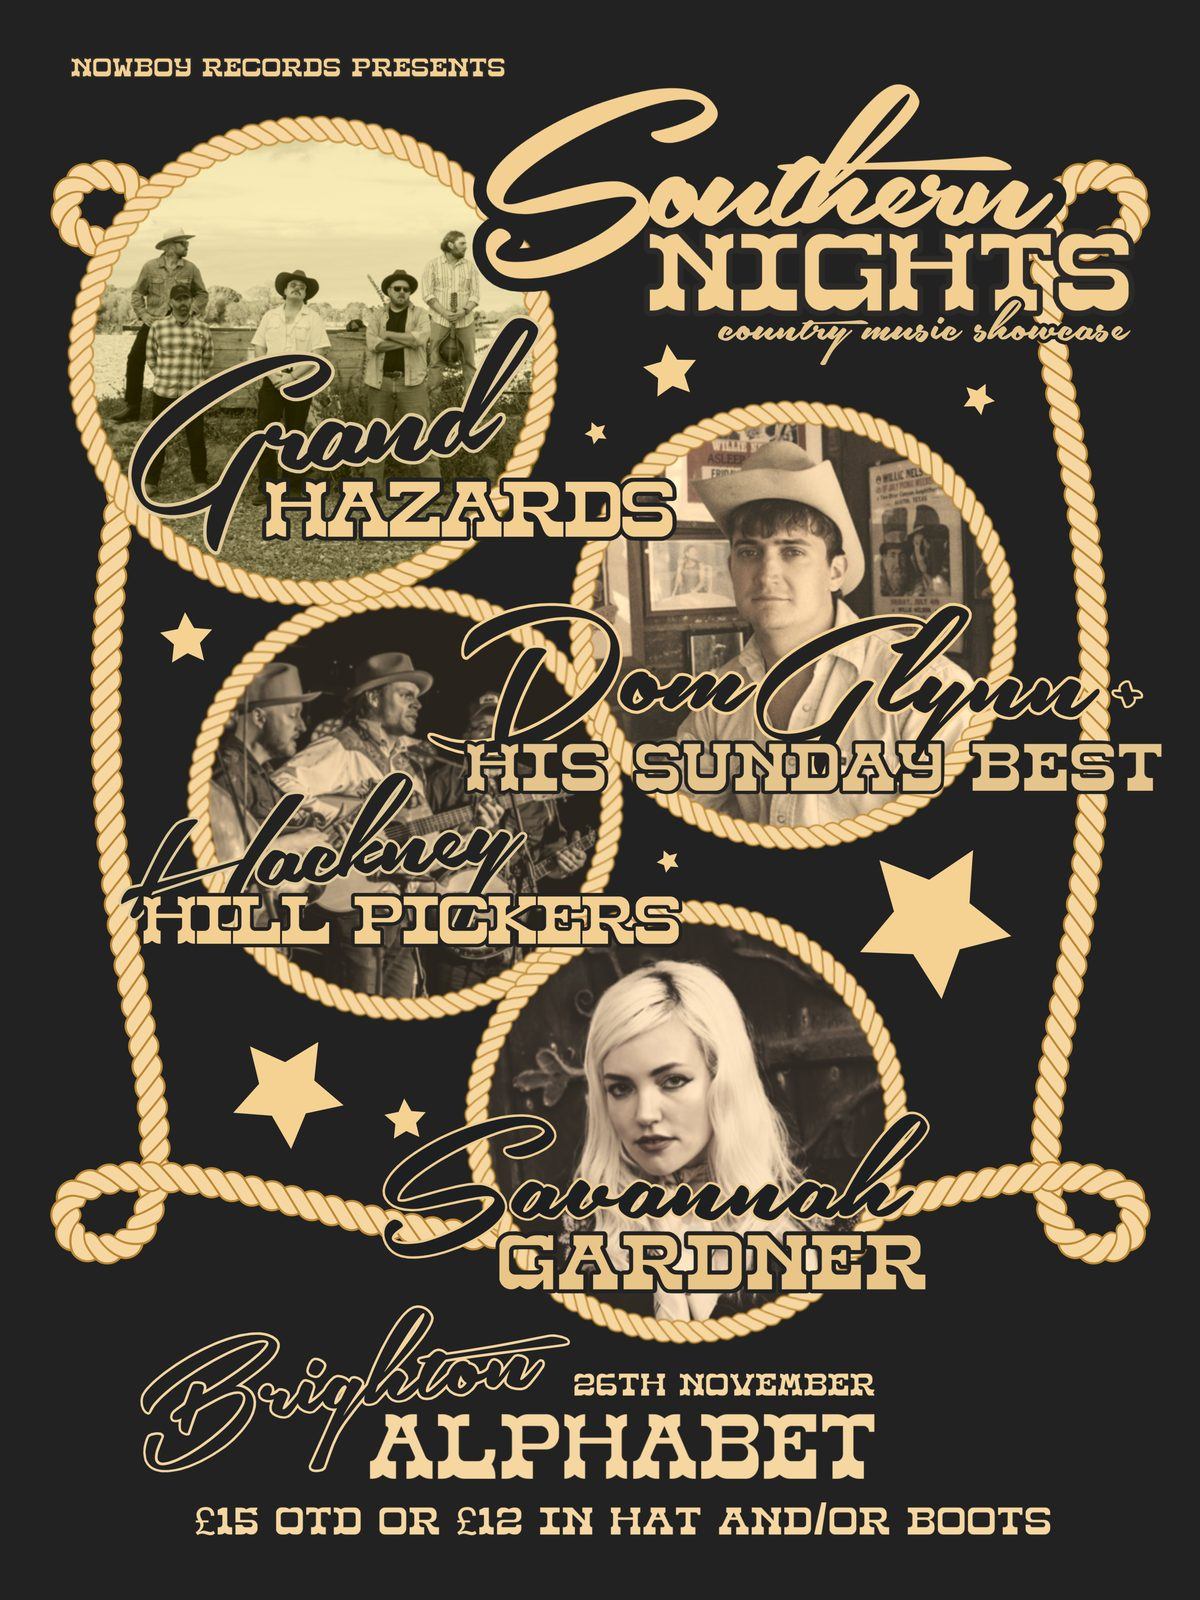
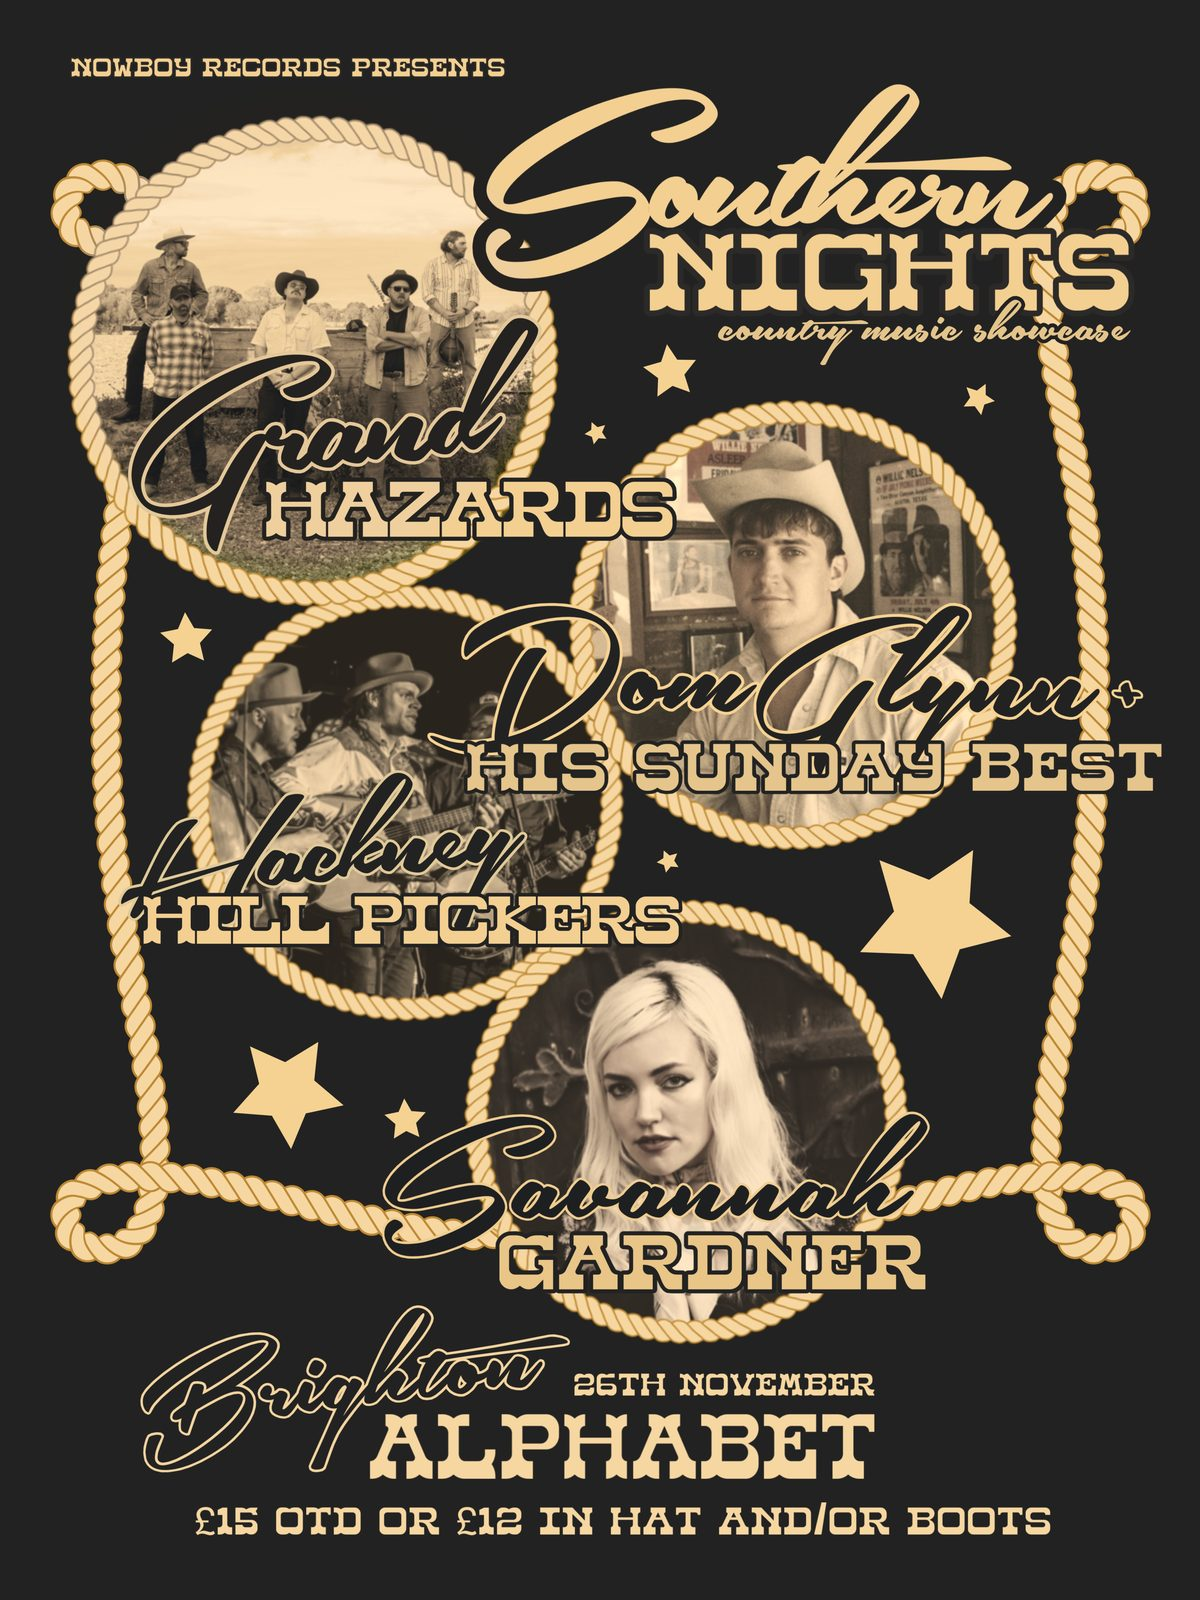
Poster palette for the site, colour-matched Grand Hazards photo
Charcoal ground, rope cream and tan taken off the Southern Nights poster.
The Grand Hazards photo is remapped through the same duotone curve as the
other three so the bill looks consistent.

Claude-Session: https://claude.ai/code/session_01FrJCnWG7opyiZPccYFGzee

diff --git a/site.css b/site.css
@@ -1,22 +1,14 @@
-/* Nowboy Records — cream paper, olive ink. Posters do the work. */
+/* Nowboy Records — palette lifted straight off the Southern Nights poster:
+   charcoal ground, rope cream, tan midtone. Posters do the work. */
 :root {
-  --paper:  #F3EFE3;   /* cream, off the logo */
-  --ink:    #37341F;   /* deep olive */
-  --olive:  #534F3F;   /* logo olive */
-  --muted:  #7C765F;
-  --line:   #D8D1BB;
+  --paper:  #1B1A18;   /* page ground, a shade deeper than the poster */
+  --raised: #24221E;   /* behind a poster while it loads */
+  --ink:    #EFE7D6;   /* body text, soft cream */
+  --wheat:  #F5D5A1;   /* the poster's rope cream — headings and accents */
+  --tan:    #AD9570;   /* the poster's midtone — secondary text */
+  --line:   #37322A;
   --display: "Yeseva One", Windsor, Georgia, serif;
   --body: "Jost", system-ui, -apple-system, "Helvetica Neue", sans-serif;
-  color-scheme: light;
-}
-@media (prefers-color-scheme: dark) {
-  :root:not([data-theme="light"]) {
-    --paper: #2F2C1D; --ink: #F3EFE3; --olive: #E6E0CB; --muted: #ABA389; --line: #4C4833;
-    color-scheme: dark;
-  }
-}
-:root[data-theme="dark"] {
-  --paper: #2F2C1D; --ink: #F3EFE3; --olive: #E6E0CB; --muted: #ABA389; --line: #4C4833;
   color-scheme: dark;
 }
 
@@ -29,15 +21,15 @@ body {
 /* paints the strip behind a phone's status bar so nothing scrolls into it */
 body::before { content: ""; position: fixed; inset: 0 0 auto; height: env(safe-area-inset-top, 0px); z-index: 30; background: var(--paper); }
 a { color: inherit; }
-a:focus-visible { outline: 2px solid var(--ink); outline-offset: 3px; }
-h1, h2, h3 { font-family: var(--display); font-weight: 400; text-wrap: balance; margin: 0; line-height: 1.12; }
+a:focus-visible { outline: 2px solid var(--wheat); outline-offset: 3px; }
+h1, h2, h3 { font-family: var(--display); font-weight: 400; color: var(--wheat); text-wrap: balance; margin: 0; line-height: 1.12; }
 
 .wrap {
   max-width: 1120px; margin: 0 auto;
   padding-left: max(20px, env(safe-area-inset-left, 0px));
   padding-right: max(20px, env(safe-area-inset-right, 0px));
 }
-.eyebrow { font-size: 12px; font-weight: 500; letter-spacing: .24em; text-transform: uppercase; color: var(--muted); margin: 0; }
+.eyebrow { font-size: 12px; font-weight: 500; letter-spacing: .24em; text-transform: uppercase; color: var(--tan); margin: 0; }
 .sr { position: absolute; width: 1px; height: 1px; overflow: hidden; clip: rect(0 0 0 0); }
 
 /* Top bar — sticks, hides on the way down, comes back on the way up */
@@ -48,21 +40,21 @@ h1, h2, h3 { font-family: var(--display); font-weight: 400; text-wrap: balance; 
 }
 .topbar.is-away { transform: translateY(-115%); }
 .topbar .wrap { display: flex; align-items: center; justify-content: space-between; gap: 16px 24px; flex-wrap: wrap; padding-block: 14px; }
-.brand { font-family: var(--display); font-size: 19px; text-decoration: none; white-space: nowrap; }
+.brand { font-family: var(--display); font-size: 19px; color: var(--wheat); text-decoration: none; white-space: nowrap; }
 .nav { display: flex; gap: 20px; flex-wrap: wrap; }
-.nav a { font-size: 12px; font-weight: 500; letter-spacing: .2em; text-transform: uppercase; text-decoration: none; color: var(--muted); padding-block: 2px; }
-.nav a:hover { color: var(--ink); }
-.nav a[aria-current="page"] { color: var(--ink); border-bottom: 1px solid var(--ink); }
+.nav a { font-size: 12px; font-weight: 500; letter-spacing: .2em; text-transform: uppercase; text-decoration: none; color: var(--tan); padding-block: 2px; }
+.nav a:hover { color: var(--wheat); }
+.nav a[aria-current="page"] { color: var(--wheat); border-bottom: 1px solid var(--wheat); }
 
 /* Masthead */
 .masthead .wrap { padding-block: 52px 44px; display: grid; justify-items: center; text-align: center; gap: 20px; }
 .logo {
   width: min(300px, 70vw); aspect-ratio: 800 / 779;
-  background: var(--ink);
+  background: var(--wheat);
   -webkit-mask: url(logo-full.png) center / contain no-repeat;
           mask: url(logo-full.png) center / contain no-repeat;
 }
-.standfirst { max-width: 42ch; margin: 0; font-size: 19px; }
+.standfirst { max-width: 42ch; margin: 0; font-size: 19px; color: var(--ink); }
 
 /* Section heads */
 .head { display: flex; align-items: baseline; justify-content: space-between; gap: 16px; flex-wrap: wrap;
@@ -74,31 +66,31 @@ h1, h2, h3 { font-family: var(--display); font-weight: 400; text-wrap: balance; 
          grid-template-columns: repeat(auto-fill, minmax(min(100%, 210px), 1fr)); }
 .show a { display: grid; gap: 10px; text-decoration: none; }
 .show h3 { font-size: 21px; }
-.show .when { margin: 0; font-size: 14px; color: var(--muted); line-height: 1.45; }
-.show .go { font-size: 11px; font-weight: 500; letter-spacing: .2em; text-transform: uppercase; margin: 2px 0 0; }
+.show .when { margin: 0; font-size: 14px; color: var(--tan); line-height: 1.45; }
+.show .go { font-size: 11px; font-weight: 500; letter-spacing: .2em; text-transform: uppercase; color: var(--wheat); margin: 2px 0 0; }
 .show a:hover .go { text-decoration: underline; text-underline-offset: 4px; }
 
 .poster { display: block; width: 100%; max-width: 100%; aspect-ratio: 3 / 4; overflow: hidden;
-          background: var(--olive); border: 1px solid var(--line); transition: opacity .2s ease; }
+          background: var(--raised); border: 1px solid var(--line); transition: opacity .2s ease; }
 .poster img { width: 100%; height: 100%; object-fit: cover; display: block; }
-.show a:hover .poster { opacity: .88; }
+.show a:hover .poster { opacity: .85; }
 .placeholder { width: 100%; height: 100%; display: flex; flex-direction: column; align-items: center; justify-content: center;
-               gap: 8px; text-align: center; padding: 18px; color: var(--paper); }
+               gap: 8px; text-align: center; padding: 18px; color: var(--wheat); }
 .placeholder .pname { font-family: var(--display); font-size: clamp(22px, 4vw, 28px); line-height: 1.1; }
-.placeholder .pwhen { font-size: 11px; letter-spacing: .16em; text-transform: uppercase; }
+.placeholder .pwhen { font-size: 11px; letter-spacing: .16em; text-transform: uppercase; color: var(--tan); }
 
 /* Coming soon pages */
 .soon .wrap { padding-block: 72px 110px; display: grid; justify-items: center; text-align: center; gap: 18px; }
 .soon h1 { font-size: clamp(38px, 8vw, 60px); }
 .soon p { max-width: 40ch; margin: 0; }
 .btn { display: inline-block; font-size: 12px; font-weight: 500; letter-spacing: .2em; text-transform: uppercase;
-       background: var(--ink); color: var(--paper); padding: 14px 26px; text-decoration: none; margin-top: 6px; }
-.btn:hover { background: var(--olive); }
+       background: var(--wheat); color: #1B1A18; padding: 14px 26px; text-decoration: none; margin-top: 6px; }
+.btn:hover { background: var(--ink); }
 
 footer { border-top: 1px solid var(--line); }
 footer .wrap { padding-block: 26px 44px; display: flex; flex-wrap: wrap; gap: 10px 32px; justify-content: space-between;
-               font-size: 12px; font-weight: 500; letter-spacing: .18em; text-transform: uppercase; color: var(--muted); }
+               font-size: 12px; font-weight: 500; letter-spacing: .18em; text-transform: uppercase; color: var(--tan); }
 footer a { text-decoration: none; }
-footer a:hover { color: var(--ink); }
+footer a:hover { color: var(--wheat); }
 
 @media (prefers-reduced-motion: reduce) { * { transition: none !important; } }
